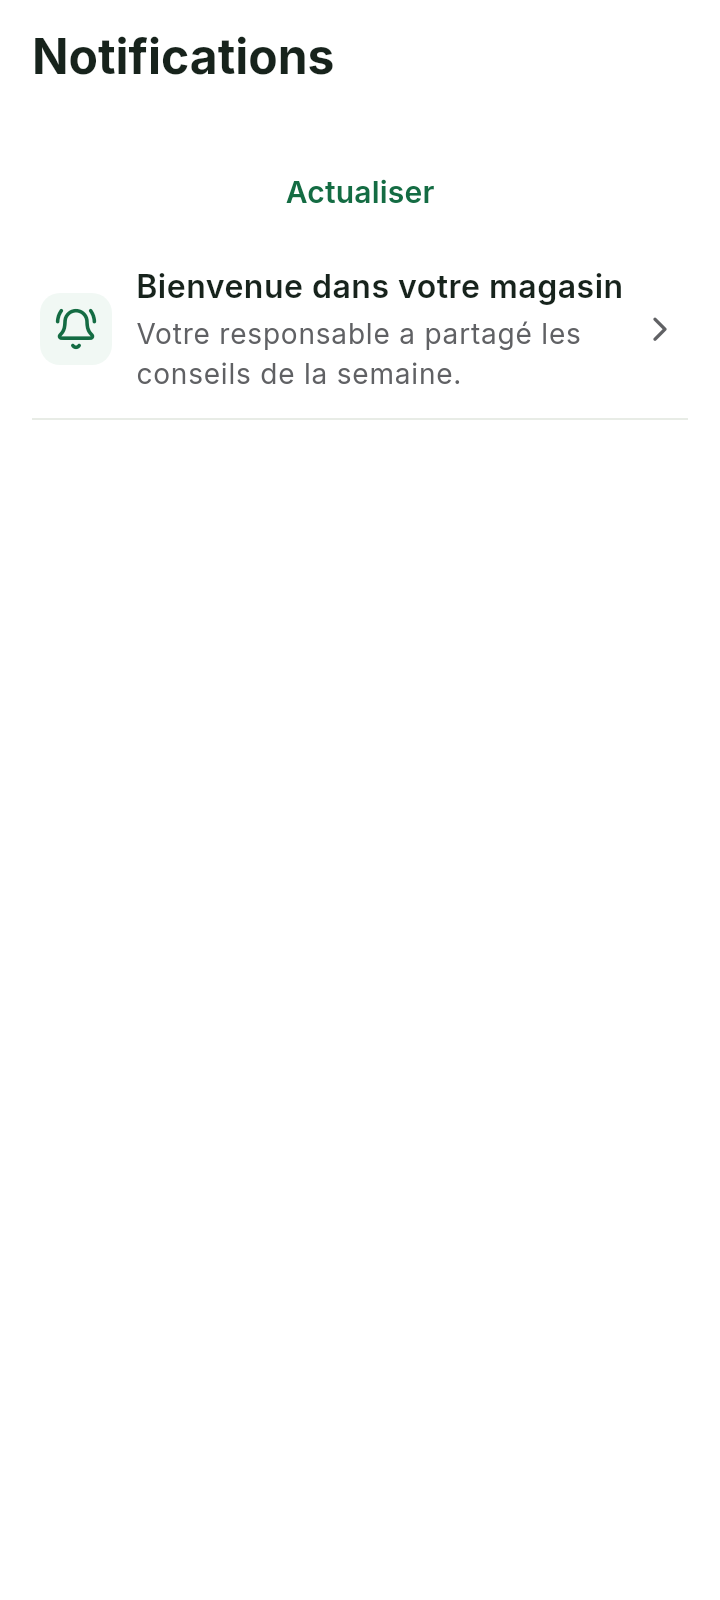
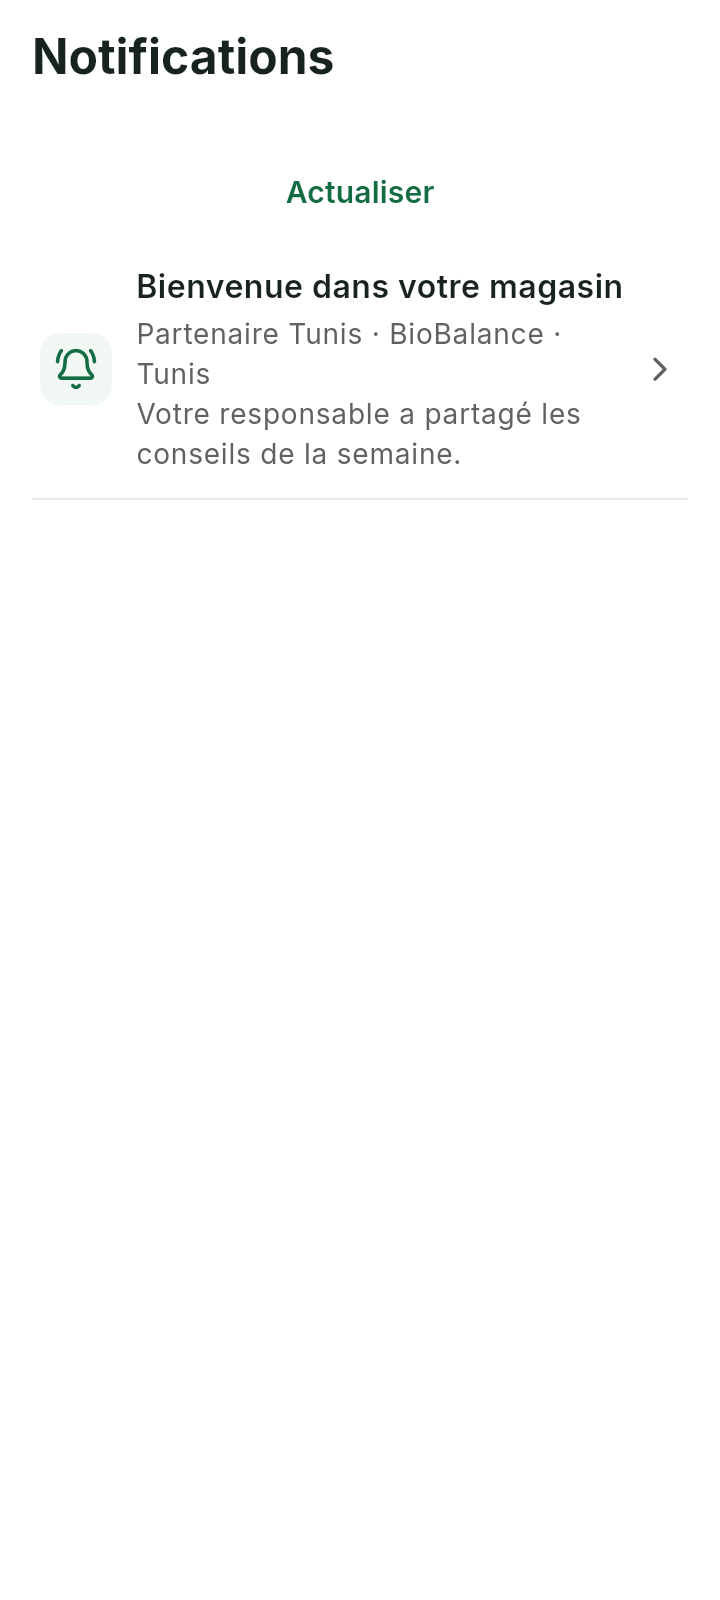
fix: show notification scope and explicit delivery discrepancies

Changed region(s): [[0.1833, 0.1875, 0.7944, 0.3125], [0.0611, 0.1875, 0.1528, 0.25]]

diff --git a/apps/mobile/lib/ui/features/notifications/notifications_screen.dart b/apps/mobile/lib/ui/features/notifications/notifications_screen.dart
@@ -1,5 +1,7 @@
 import 'package:flutter/material.dart';
 
+import '../../../domain/models/models.dart';
+
 import 'notifications_view_model.dart';
 import '../dashboard/attention_screen.dart';
 import '../replenishment/scoped_order_screen.dart';
@@ -63,9 +65,21 @@ class _NotificationsScreenState extends State<NotificationsScreen>
         itemCount: inbox.items.length,
         itemBuilder: (context, index) {
           final n = inbox.items[index];
+          final location = widget.vm.state.stores
+              .where(
+                (s) =>
+                    s.id == n['storeId'] &&
+                    s.organizationId == n['organizationId'],
+              )
+              .firstOrNull;
+          final scope = location == null
+              ? (n['storeId'] == null
+                    ? 'BioBalance'
+                    : 'Magasin ${n['storeId'].toString().split('-').first}')
+              : '${location.organizationName} · ${location.name}';
           return CompactRow(
             title: n['title'],
-            subtitle: n['body'],
+            subtitle: '$scope\n${n['body']}',
             icon: n['readAt'] == null
                 ? AppIcons.notificationsActiveOutlined
                 : AppIcons.notificationsNone,
@@ -73,13 +87,17 @@ class _NotificationsScreenState extends State<NotificationsScreen>
               try {
                 final message = await widget.vm.openNotification(n['id']);
                 if (!context.mounted) return;
-                final store = widget.vm.state.stores
-                    .where(
-                      (s) =>
-                          s.id == message['storeId'] &&
-                          s.organizationId == message['organizationId'],
-                    )
-                    .firstOrNull;
+                final store = message['authorizedStore'] != null
+                    ? Store.fromJson(
+                        Map<String, dynamic>.from(message['authorizedStore']),
+                      )
+                    : widget.vm.state.stores
+                          .where(
+                            (s) =>
+                                s.id == message['storeId'] &&
+                                s.organizationId == message['organizationId'],
+                          )
+                          .firstOrNull;
                 if (store != null &&
                     message['targetType'] == 'order' &&
                     message['targetId'] != null) {
@@ -124,7 +142,7 @@ class _NotificationsScreenState extends State<NotificationsScreen>
                       title: Text(message['title']),
                       content: SingleChildScrollView(
                         child: Text(
-                          '${message['storeName'] ?? 'BioBalance'}\n\n${message['body']}',
+                          '${message['groupName'] ?? 'BioBalance'} · ${message['storeName'] ?? ''}\n\n${message['body']}',
                         ),
                       ),
                       actions: [

diff --git a/apps/mobile/lib/ui/features/replenishment/scoped_order_screen.dart b/apps/mobile/lib/ui/features/replenishment/scoped_order_screen.dart
@@ -492,7 +492,7 @@ class _ExactOrderScreenState extends State<ExactOrderScreen> {
                 CompactRow(
                   title: issue['reason'],
                   subtitle:
-                      '${statusLabel(issue['status'])} · ${TunisDates.timestampLabel(issue['createdAt'])}${issue['resolutionNote'] == null ? '' : '\n${issue['resolutionNote']}'}',
+                      '${statusLabel(issue['status'])} · ${TunisDates.timestampLabel(issue['createdAt'])}${objects(issue['heldLines']).map((l) => '\n${vm.productName(l['productId'])} : ${l['quantity']} unités à régler').join()}${issue['resolutionNote'] == null ? '' : '\n${issue['resolutionNote']}'}',
                   icon: AppIcons.infoOutline,
                   tone: issue['status'] == 'resolved'
                       ? AppTone.success
@@ -643,8 +643,24 @@ class _ExactOrderScreenState extends State<ExactOrderScreen> {
       if (units('refused') > 0) '${units('refused')} refusées',
     ].join(' · ');
     final note = receipt['differences']?['note']?.toString() ?? '';
+    final differences = objects(receipt['differences']?['lines'])
+        .where(
+          (l) =>
+              integer(l['expected']) != integer(l['actual']) ||
+              integer(l['damaged']) > 0 ||
+              integer(l['refused']) > 0 ||
+              integer(l['surplus']) > 0,
+        )
+        .map(
+          (l) =>
+              '${vm.productName(l['productId'])} : ${l['expected']} attendues, ${l['actual']} acceptées'
+              '${integer(l['damaged']) > 0 ? ', ${l['damaged']} abîmées' : ''}'
+              '${integer(l['refused']) > 0 ? ', ${l['refused']} refusées' : ''}'
+              '${integer(l['surplus']) > 0 ? ', ${l['surplus']} supplémentaires' : ''}',
+        )
+        .join('\n');
     return Text(
-      '$details · ${TunisDates.timestampLabel(receipt['createdAt'])}${note.isEmpty ? '' : '\n$note'}',
+      '$details · ${TunisDates.timestampLabel(receipt['createdAt'])}${differences.isEmpty ? '' : '\n$differences'}${note.isEmpty ? '' : '\n$note'}',
       style: const TextStyle(fontSize: 14, color: muted),
     );
   }

diff --git a/apps/mobile/lib/ui/features/replenishment/order_screens.dart b/apps/mobile/lib/ui/features/replenishment/order_screens.dart
@@ -57,7 +57,7 @@ class OrdersPage extends StatelessWidget {
       context,
       title: 'Préparer une livraison',
       description:
-          '${store.name}\n${remaining.lines.map((l) => '${vm.productName(l.productId)} : ${l.received} reçues, ${l.inTransit} en route, ${l.remainingToDispatch} à expédier').join('\n')}',
+          '${store.name}\n${remaining.lines.map((l) => '${vm.productName(l.productId)} : ${l.received} reçues, ${l.inTransit} engagées (en route ou à vérifier), ${l.remainingToDispatch} à expédier').join('\n')}',
       fields: lines
           .map(
             (l) => FieldSpec(

diff --git a/apps/mobile/lib/ui/features/workspace/workspace_view_model.dart b/apps/mobile/lib/ui/features/workspace/workspace_view_model.dart
@@ -403,6 +403,8 @@ class WorkspaceViewModel extends ChangeNotifier {
       // Reading the inbox must not silently replace the operational workspace.
       // Navigation is owned by the scope coordinator, not by a notification read.
       message['storeName'] = target.name;
+      message['groupName'] = target.organizationName;
+      message['authorizedStore'] = target.toJson();
     }
     await inbox.read(id);
     return message;

diff --git a/docs/operations-refinement-progress.md b/docs/operations-refinement-progress.md
@@ -40,3 +40,11 @@ Legacy v1/v2 queued envelopes and accepted results remain readable. An old zero-
 ## Execution still in progress
 
 Native Android role/restart journeys; additional uncertain-response and lifecycle/receipt screenshot checks; generated drift verification; commit/push/CI; immutable images and compatible VPS rollout; signed three-app installation; final quiesced backup/reset and exact post-reset counts. Final evidence and any unavailable platform checks must be stated explicitly. Physical iOS, public store publishing, off-server backup and HA are outside this update.
+
+## Final local checks
+
+Full Flutter rerun after presentation review: **267 passed**, analyzer clean. The notification list now includes group/store labels, and navigation captures the freshly authorized target without switching the originating workspace. Receipt discrepancies display expected/accepted/damaged/refused/surplus quantities; unresolved commitments are labelled as engaged quantities rather than incorrectly calling them all in transit.
+
+The native Android restart harness passed: force-stop/relaunch preserves the account, original outbox ID and payload; one accepted sale yields stock 7/version 3 and 30 points. A downloaded, integrity-verified H.264 training video plays offline on Android. Generated contract drift check passed. These are emulator results; they do not claim reference-device performance measurements.
+
+Implementation commit `505795b` contains the backend and migrations. Backend images were built from that commit; subsequent changes are mobile presentation and evidence only. CI run `35919781530` passed backend and iOS checks while Android checks continued. Final CI outcome, deployment and phone/reset results are recorded in the handover evidence.
